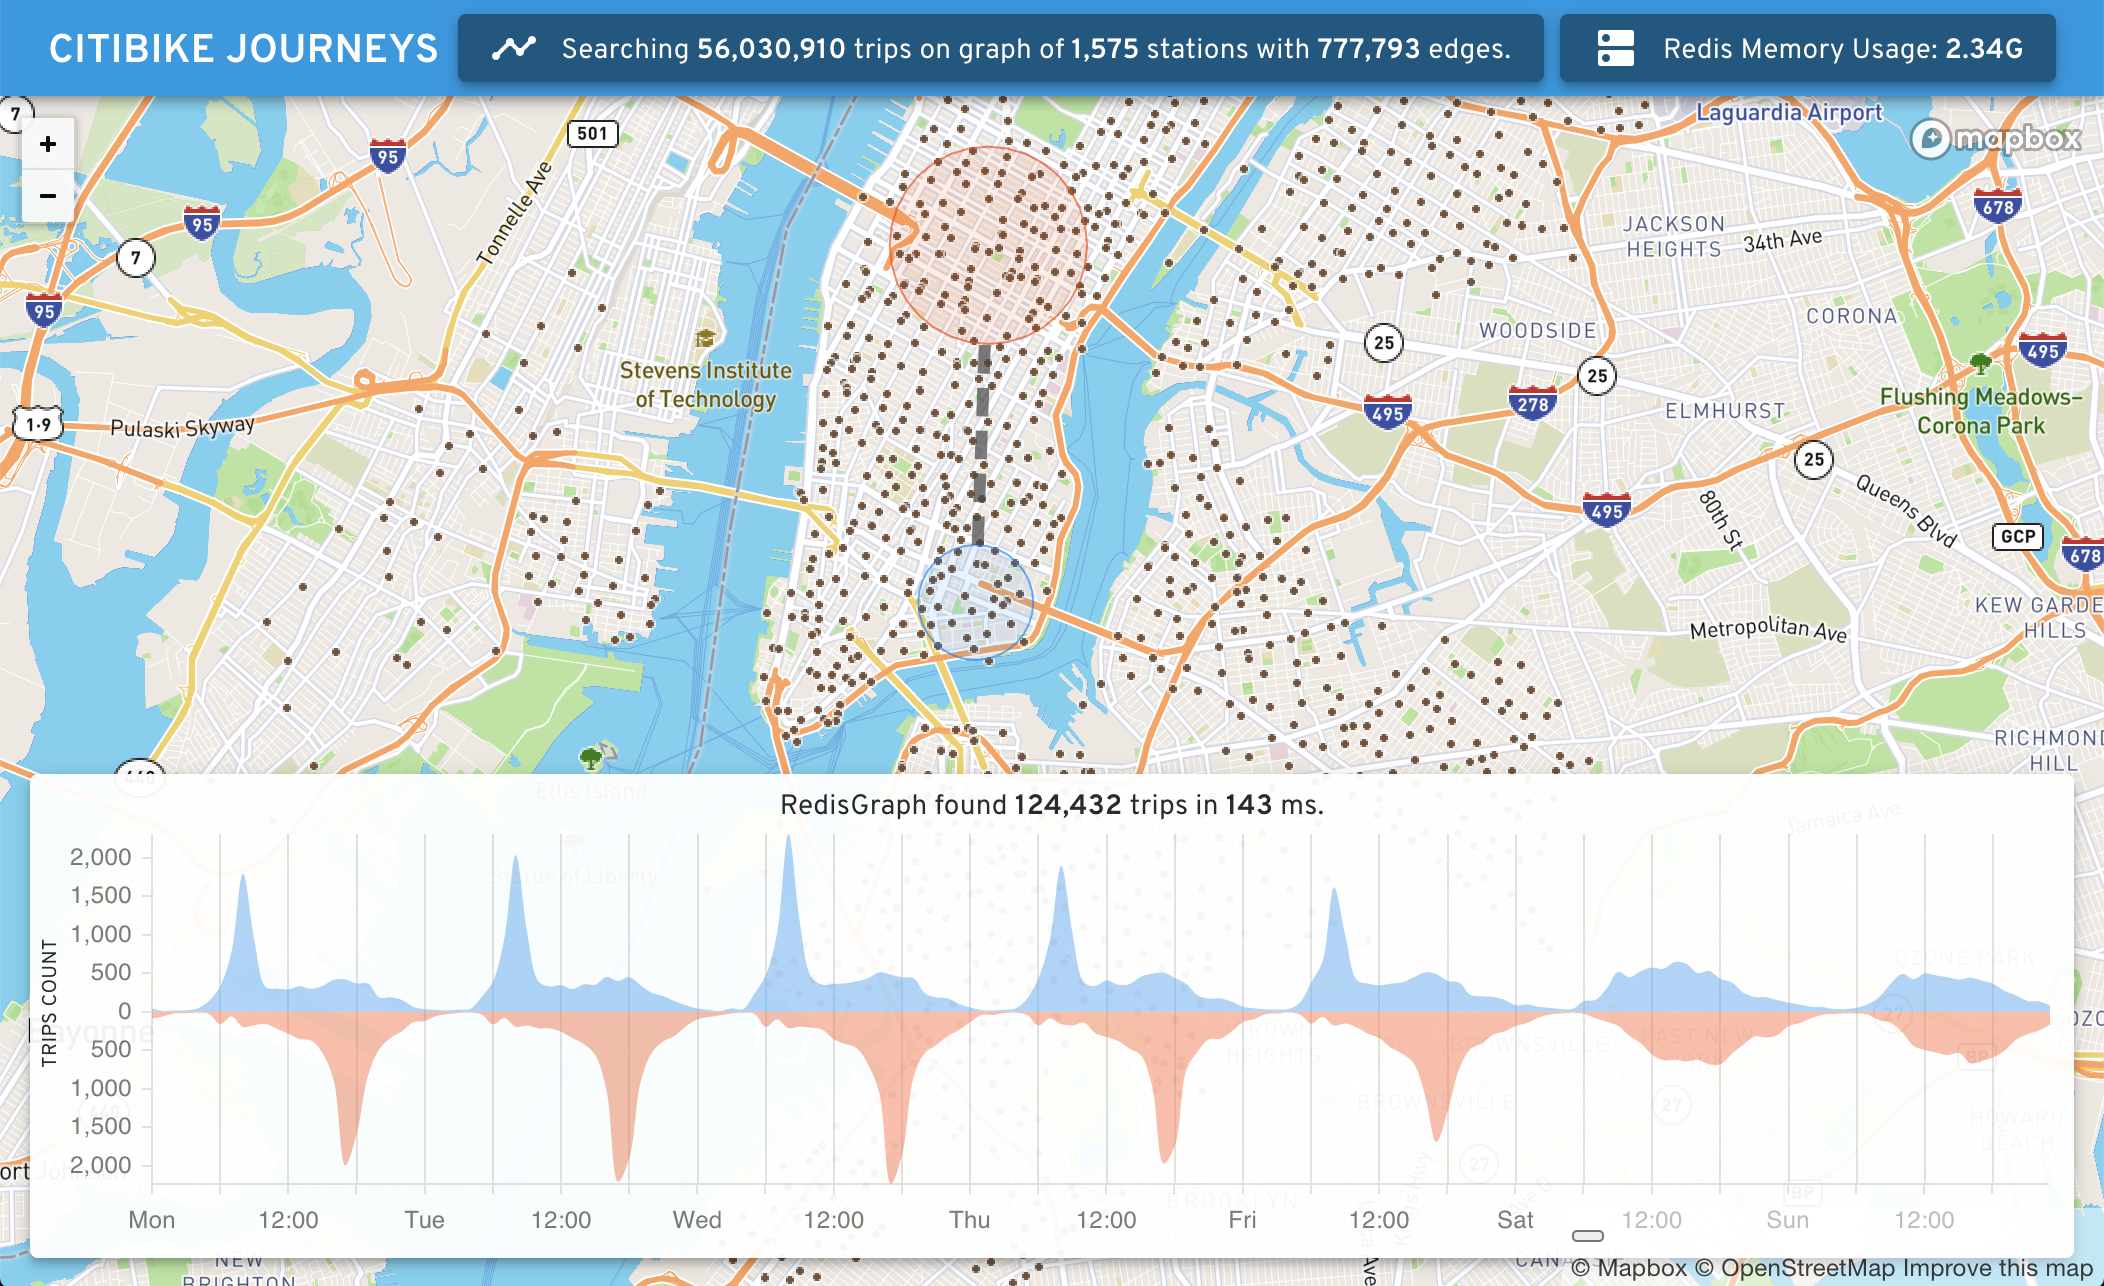
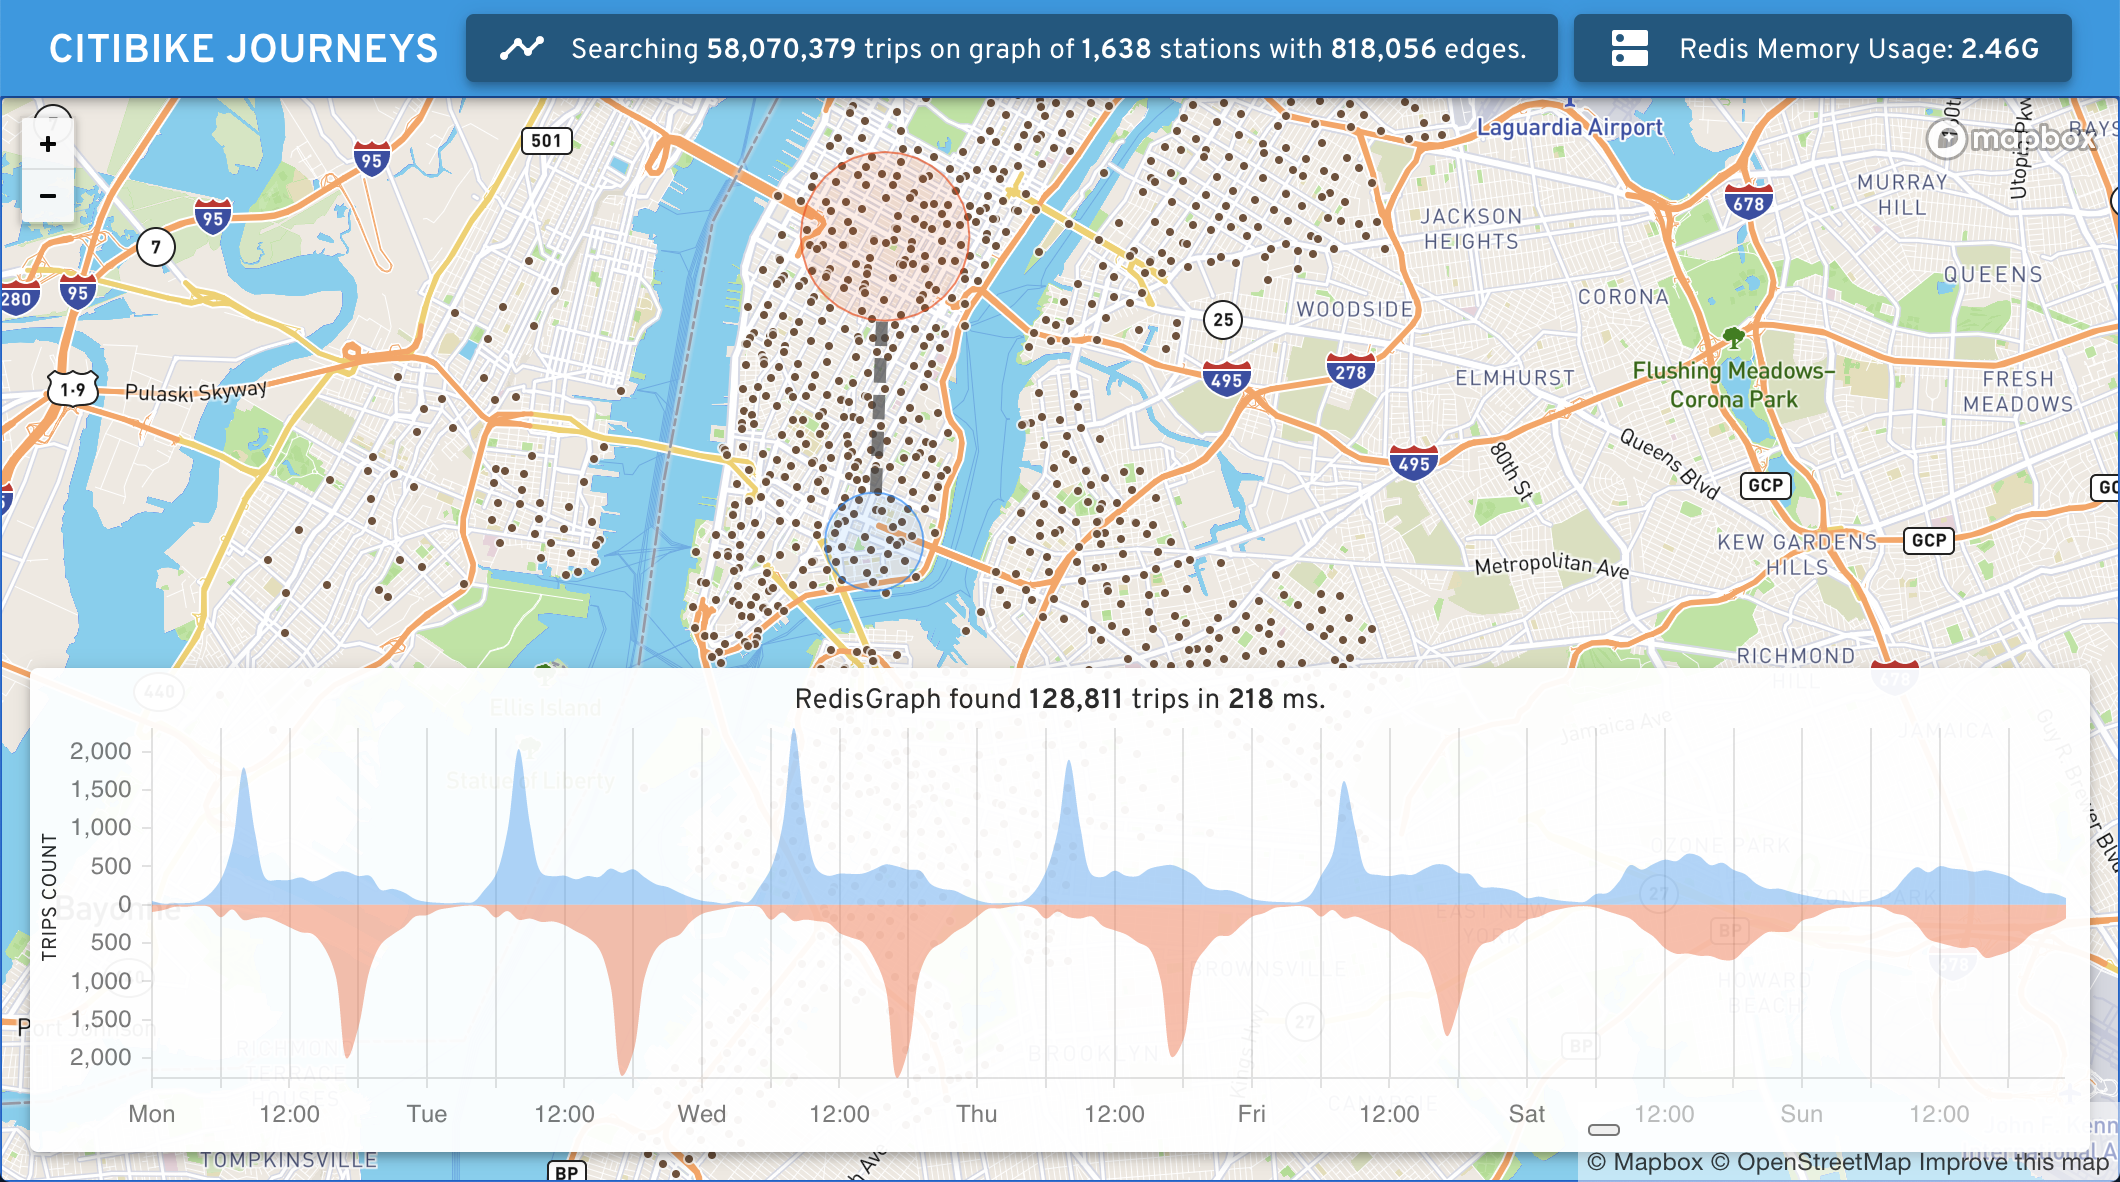
Index April data and refresh readme/screenshot.

diff --git a/README.md b/README.md
@@ -2,7 +2,7 @@
 
 _[Build on Redis Hackathon](https://redislabs.com/hackathon-2021/) entry, mitchsw, 2021-05-12._
 
-A visual geospatial index of over 56 million bikeshare trips across NYC. This could be helpful to capacity plan across the network, allowing you to investigate aggregated rush hour and weekend travel patterns in milliseconds!
+A visual geospatial index of over 58 million bikeshare trips across NYC. This could be helpful to capacity plan across the network, allowing you to investigate aggregated rush hour and weekend travel patterns in milliseconds!
 
 **Live Demo**: https://citibike.mitchsw.com/
 
@@ -65,7 +65,7 @@ This is my _first ever_ React project, be nice! ;)
 
 The offline importer iteratively downloads the public [Citi Bike trip data](https://www.citibikenyc.com/system-data), unzips each archive, and indexes all the trips into the `journeys` graph.
 
-The graph contains every `:Station` as a node, and a [geospatial index](https://oss.redislabs.com/redisgraph/commands/#indexing) of their location. All of the 56 million journeys are represented as increments on the edge between the `src` and `dst` stations. The graph is setup to aggregate trips based on their time of the week (`7*24` hour buckets). This graph could easily be extended to aggregate trips on other dimensions.
+The graph contains every `:Station` as a node, and a [geospatial index](https://oss.redislabs.com/redisgraph/commands/#indexing) of their location. All of the 58 million journeys are represented as increments on the edge between the `src` and `dst` stations. The graph is setup to aggregate trips based on their time of the week (`7*24` hour buckets). This graph could easily be extended to aggregate trips on other dimensions.
 
 To index a single trip, the following Cypher query is used:
 
@@ -89,12 +89,13 @@ Start the visual UI using Docker Compose:
 
 ```sh
  $ docker build -t citibike-journeys backend
+ $ cd frontend; yarn build; cd ..
  $ docker-compose up
 
 redismod_1  | 1:C 13 May 2021 03:12:18.017 # oO0OoO0OoO0Oo Redis is starting oO0OoO0OoO0Oo
  [...]
 backend_1   | 2021/05/13 03:09:35 Connected to Redis!
-backend_1   | 2021/05/13 03:09:55 Found 56030910 trips, 1575 stations, 777793 edges. Memory usage: 2.33G
+backend_1   | 2021/05/13 03:09:55 Found 58070379 trips, 1638 stations, 818056 edges. Memory usage: 2.46G
 backend_1   | 2021/05/13 03:09:55 Running app on port 3000...
  [...]
 nginx_1     | 172.18.0.1 - - [13/May/2021:03:13:02 +0000] "GET /api/journey_query?src_lat=40.715653603071786&src_long=-73.98651260399838&src_radius=0.7&dst_lat=40.75472153232781&dst_long=-73.98468539999953&dst_radius=1.2 HTTP/1.1" 200 1328 "http://localhost/" "Mozilla/5.0"
